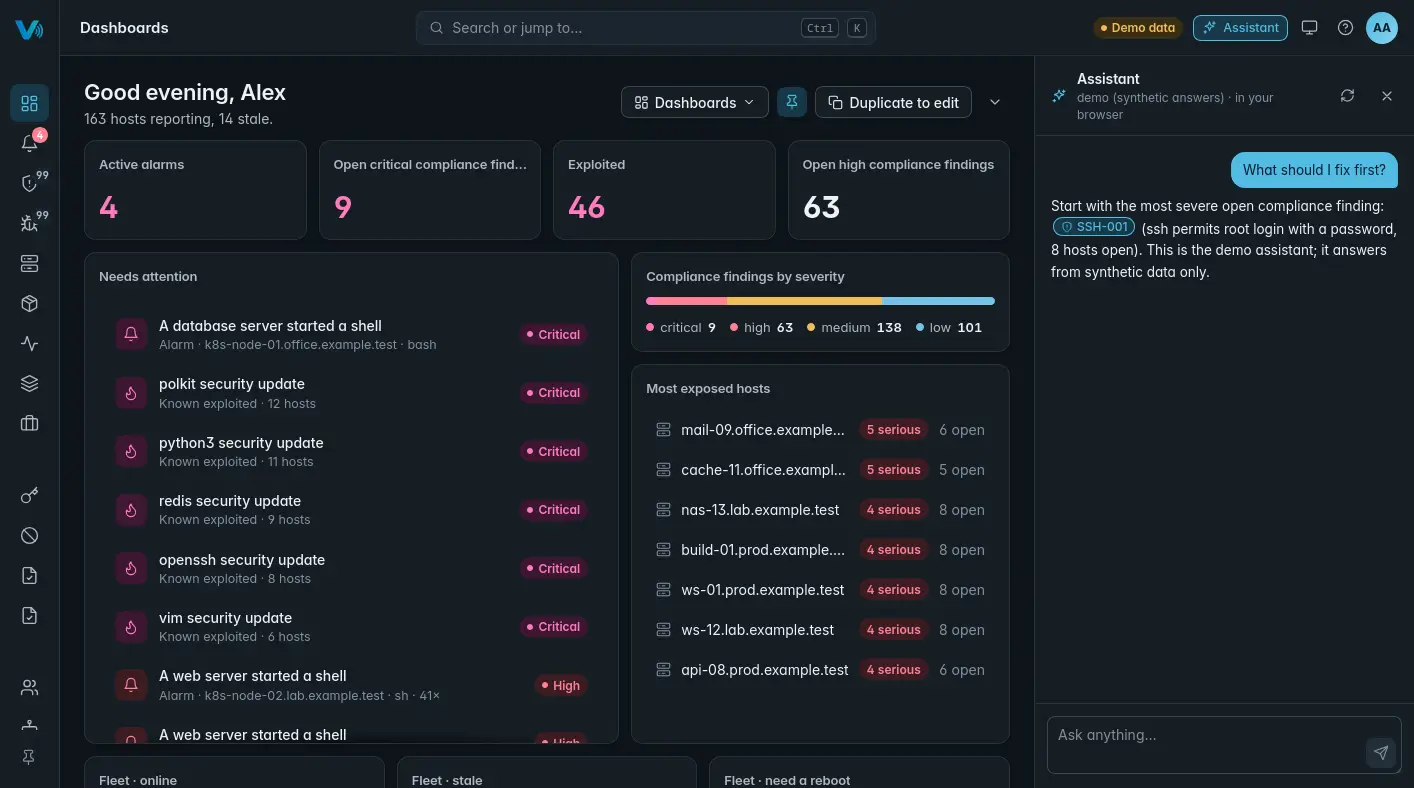
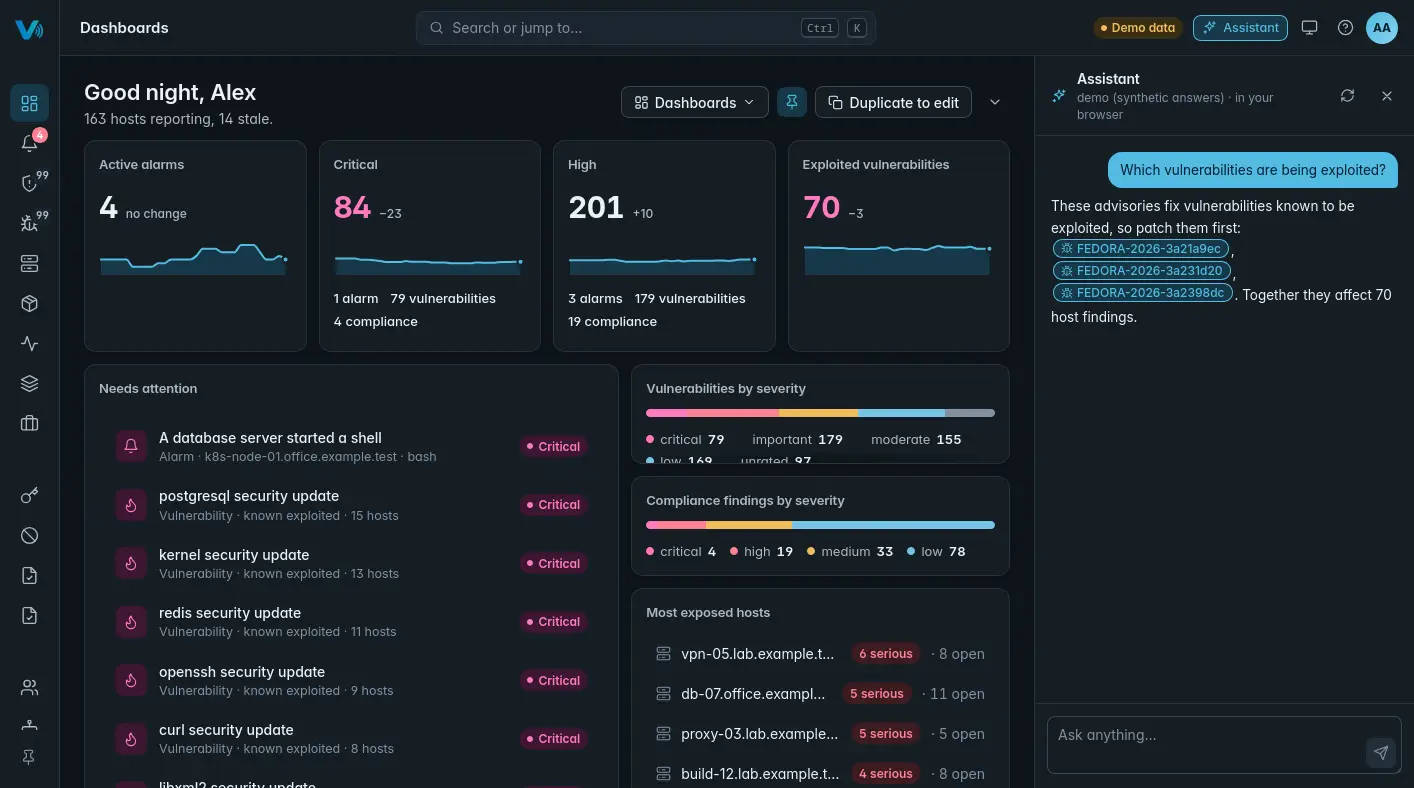
site: screenshots of the new dashboard and the real baseline rules
Taken from the live demo after the new dashboard (platform #216) and the
demo's shipped-rules data (platform #218) deployed (demo at 7002a03):
dashboard, vulnerabilities, compliance (baseline rules), an alarm with
why it fired, the assistant answering 'Which vulnerabilities are being
exploited?' (the 'fix first' answer lowercases the rule message, a demo
quirk). 286 KB in all; alt texts describe what each now shows.

diff --git a/index.html b/index.html
@@ -30,7 +30,7 @@
       <span class="note">Free · self-hosted · platform on Fedora 44</span>
     </div>
     <div class="frame"><div class="bar" aria-hidden="true"><i></i><i></i><i></i></div>
-      <img class="screen" src="assets/dashboard.webp" width="1414" height="788" alt="The OpenVIBES console's dashboard: active alarms, open critical compliance findings, exploited vulnerabilities, and the hosts most exposed.">
+      <img class="screen" src="assets/dashboard.webp" width="1414" height="788" alt="The OpenVIBES console's dashboard: active alarms, critical and high findings and exploited vulnerabilities with their trends, what needs attention first, and the most exposed hosts.">
     </div>
   </div>
 </header>
@@ -50,7 +50,7 @@
     <h3>Check your baseline</h3>
     <p>Signed compliance rules run on every host. The baseline flags services exposed to the network, such as the Docker API, Redis or a database, and risky servers like Telnet and rsh. Write your own rules and sign them on your platform.</p>
     <ul><li>Baseline rules included</li><li>Your own rules, your own signing key</li></ul>
-  </div><div class="shot"><img class="screen" src="assets/compliance.webp" width="1414" height="788" loading="lazy" alt="The Compliance view: findings by severity, with how many hosts each affects and their triage."></div></div>
+  </div><div class="shot"><img class="screen" src="assets/compliance.webp" width="1414" height="788" loading="lazy" alt="The Compliance view: baseline findings such as an exposed Docker API, MongoDB or Redis, by severity, with how many hosts each affects and their triage."></div></div>
 
   <div class="feat"><div class="txt">
     <h3>Hear about threats in seconds</h3>
@@ -62,7 +62,7 @@
     <h3>Ask in plain words</h3>
     <p>An optional assistant runs on your own platform. Ask what to fix first, which hosts are stale, or what a finding means.</p>
     <ul><li>With the bundled model, nothing leaves your network</li><li>Answers link to the hosts and findings they are about</li></ul>
-  </div><div class="shot"><img class="screen" src="assets/assistant.webp" width="1414" height="788" loading="lazy" alt="The assistant beside the dashboard, answering 'What should I fix first?'."></div></div>
+  </div><div class="shot"><img class="screen" src="assets/assistant.webp" width="1414" height="788" loading="lazy" alt="The assistant beside the dashboard, answering 'Which vulnerabilities are being exploited?' with the advisories to patch first."></div></div>
 </div></section>
 
 <section class="block"><div class="wrap">
